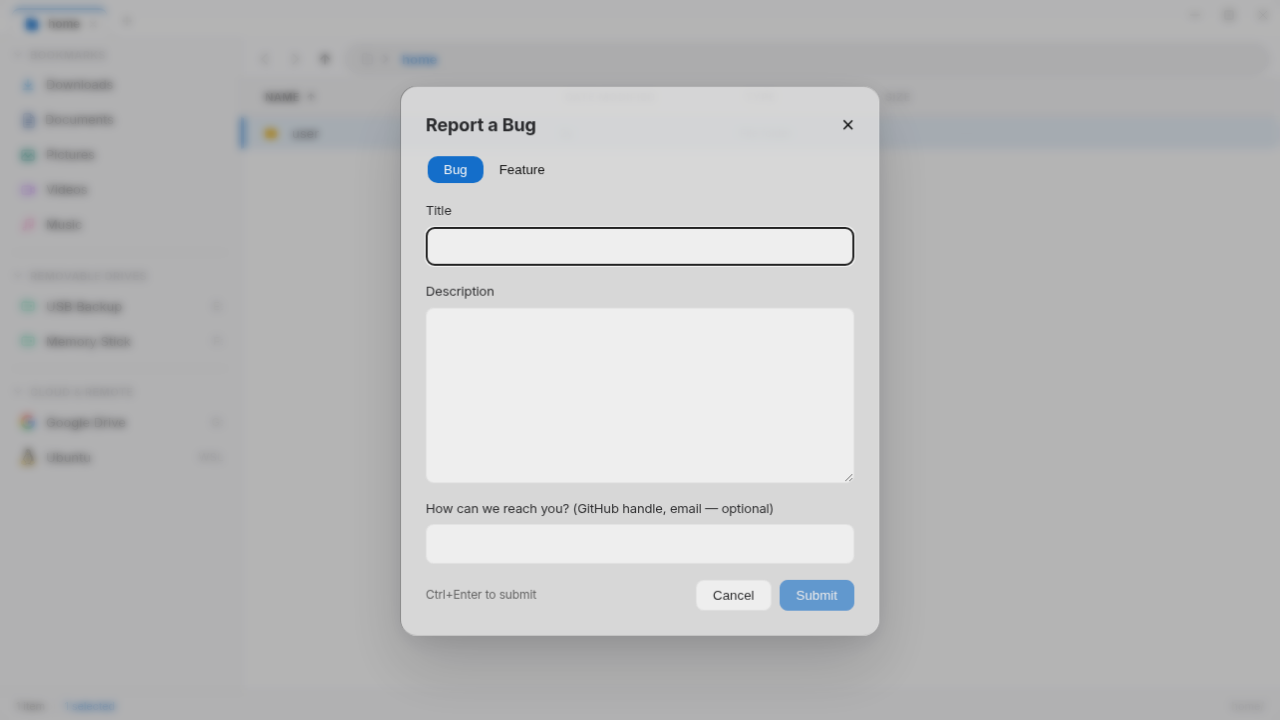
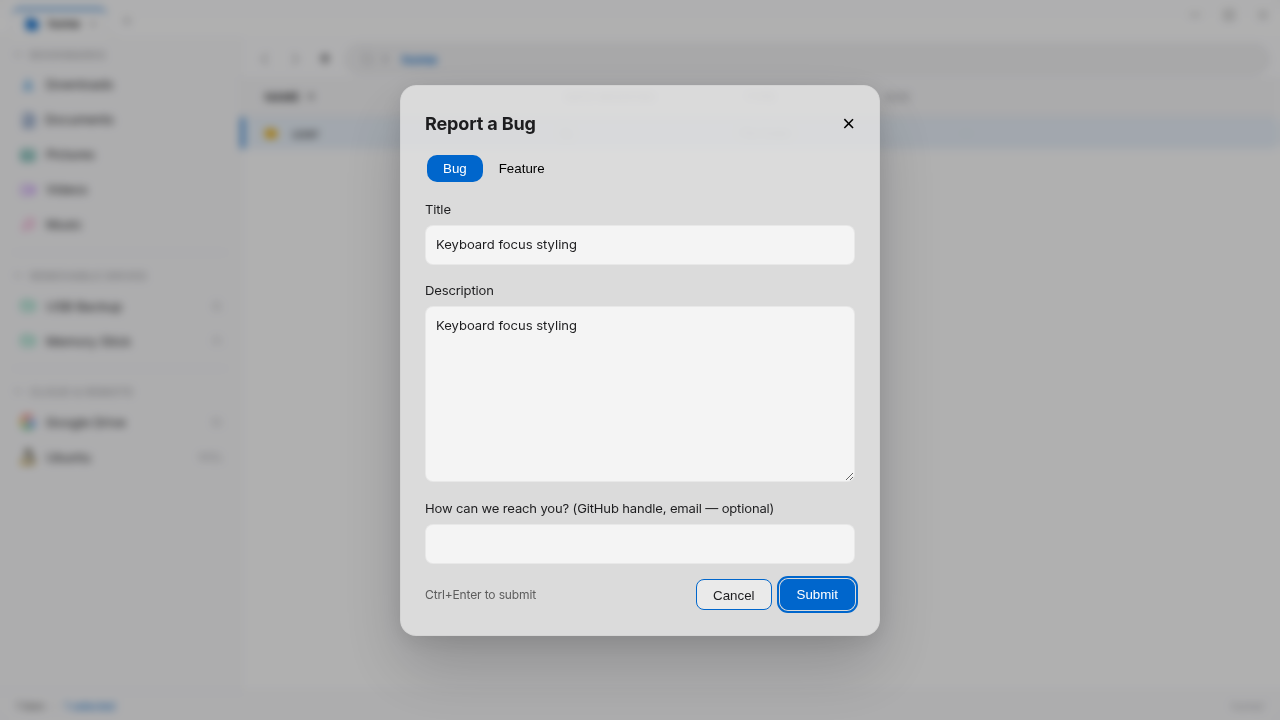
test(green): cover both report dialog modes

diff --git a/e2e/bug-report.spec.ts b/e2e/bug-report.spec.ts
@@ -32,28 +32,47 @@ for (const command of ["Report a Bug", "Request a Feature"]) {
 }
 
 test("report dialog footer buttons use the themed control treatment", async ({ page }) => {
-  await page.goto("/");
-  await waitForEntries(page);
+  for (const [command, name, screenshot] of [
+    ["Report a Bug", /report a bug/i, "evidence/ac-1-report-dialog-buttons.png"],
+    ["Request a Feature", /request a feature/i, "evidence/ac-1-feature-dialog-buttons.png"],
+  ] as const) {
+    await page.goto("/");
+    await waitForEntries(page);
+    await runPaletteCommand(page, command);
 
-  await runPaletteCommand(page, "Report a Bug");
-  const dialog = page.getByRole("dialog", { name: /report a bug/i });
-  const cancel = dialog.getByRole("button", { name: "Cancel" });
-  const submit = dialog.getByRole("button", { name: "Submit" });
-  const styles = await Promise.all([cancel, submit].map((button) => button.evaluate((element) => {
-    const computed = getComputedStyle(element);
-    return {
-      borderRadius: computed.borderRadius,
-      borderStyle: computed.borderStyle,
-      backgroundColor: computed.backgroundColor,
-    };
-  })));
+    const dialog = page.getByRole("dialog", { name });
+    const cancel = dialog.getByRole("button", { name: "Cancel" });
+    const submit = dialog.getByRole("button", { name: "Submit" });
+    const styles = await Promise.all([cancel, submit].map((button) => button.evaluate((element) => {
+      const computed = getComputedStyle(element);
+      return {
+        borderRadius: computed.borderRadius,
+        borderStyle: computed.borderStyle,
+        backgroundColor: computed.backgroundColor,
+      };
+    })));
 
-  expect(styles[0].borderRadius).not.toBe("0px");
-  expect(styles[0].borderStyle).toBe("solid");
-  expect(styles[0].backgroundColor).not.toBe("rgba(0, 0, 0, 0)");
-  expect(styles[1].borderRadius).not.toBe("0px");
-  expect(styles[1].backgroundColor).not.toBe(styles[0].backgroundColor);
-  await page.screenshot({ path: "evidence/ac-1-report-dialog-buttons.png" });
+    expect(styles[0].borderRadius).not.toBe("0px");
+    expect(styles[0].borderStyle).toBe("solid");
+    expect(styles[0].backgroundColor).not.toBe("rgba(0, 0, 0, 0)");
+    expect(styles[1].borderRadius).not.toBe("0px");
+    expect(styles[1].backgroundColor).not.toBe(styles[0].backgroundColor);
+
+    await cancel.hover();
+    await expect.poll(() => cancel.evaluate((element) => getComputedStyle(element).backgroundColor))
+      .not.toBe(styles[0].backgroundColor);
+
+    await dialog.getByLabel("Title").fill("Keyboard focus styling");
+    await dialog.getByLabel("Description").fill("Keyboard focus styling");
+    await submit.focus();
+    await page.keyboard.press("Tab");
+    await page.keyboard.press("Shift+Tab");
+    await expect(submit).toBeFocused();
+    await expect.poll(() => submit.evaluate((element) => getComputedStyle(element).outlineStyle))
+      .toBe("solid");
+
+    await page.screenshot({ path: screenshot });
+  }
 });
 
 test("failed submission preserves the draft in the GitHub fallback", async ({ page }) => {
